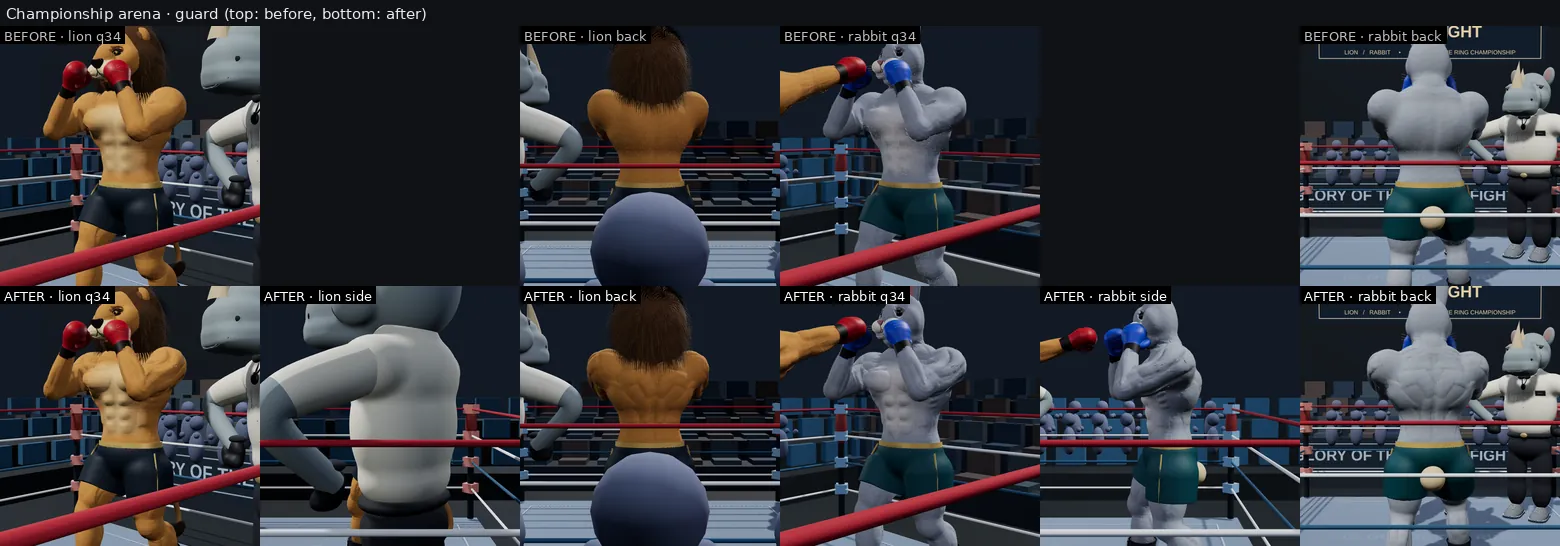
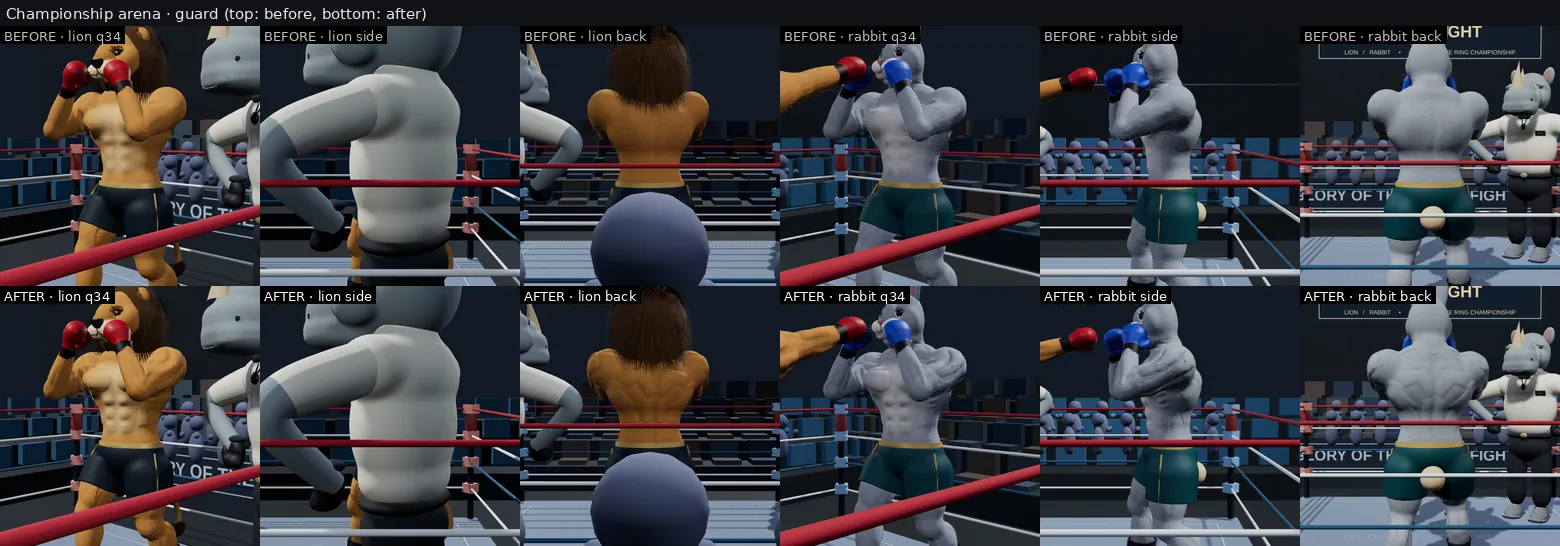
GOTR-0037: arena before/after with matched views; README checks
Claude-Session: https://claude.ai/code/session_012XYxhJ7jTb1Ye5xdCZM7vq

Changed region(s): [[0.1538, 0.0311, 0.3385, 0.5293], [0.6462, 0.0623, 0.8308, 0.5293]]

diff --git a/qa/gotr-0037/README.md b/qa/gotr-0037/README.md
@@ -35,7 +35,8 @@ and ~6 fragment ops; no new draw calls, textures or triangles. Build: once per s
 - `<species>-<guard|jab|hook>-gym.webp`: front, 3/4, side, back — same camera rig and lights, top = before
   (`2ef46f6`), bottom = after.
 - `<species>-closeups-gym.webp`: torso, hook torso, back, arm, jab shoulder, legs.
-- `arena-<guard|jab>.webp`: Championship arena, lion and rabbit, 3/4, side, back.
+- `arena-<guard|jab>.webp`: Championship arena, lion and rabbit, 3/4, side, back (in the lion side/back
+  frames the referee and a spectator stand in front of the camera rig; the rabbit and 3/4 frames show it).
 - `muscle-atlas-<species>.webp`: every atlas group painted on the rest pose and labelled.
 - Frame cost: see below (`perf.cjs`).
 
@@ -71,3 +72,11 @@ Adaptive quality: the floor level (0) turns off the per-pixel crease/sheen and t
 - Pre-existing, not addressed: a skinning crease behind the armpit when the arm reaches forward (visible
   in before and after), and the shoulder-front zig-zag seam.
 - No physical phone was available; all timings are SwiftShader on a loaded shared VM.
+
+## Checks
+- Gear fit (`tests/accessory-gear-fit.test.cjs`, after merging the Shop fits): front plate worst intrusion
+  lion 1.6 mm / rabbit 0.8 mm (limit 4 mm; base rabbit 0.1 mm), strap clears skin by 14 / 16 mm.
+- `tests/boot-closure.test.cjs`: shin stays inside the boot shaft (max 0.961 of the shaft, limit 0.99) after
+  the leg relief was tapered out under the boot collar (it failed before that fix).
+- `tests/muscle-definition.test.cjs` (new): 22 groups on both sides, relief bounds, fur roots, CPU skin,
+  pose response (lead biceps 1.18 in guard → 0.97 in the jab; triceps 1.28; lat 0.80), cache, wiring.
